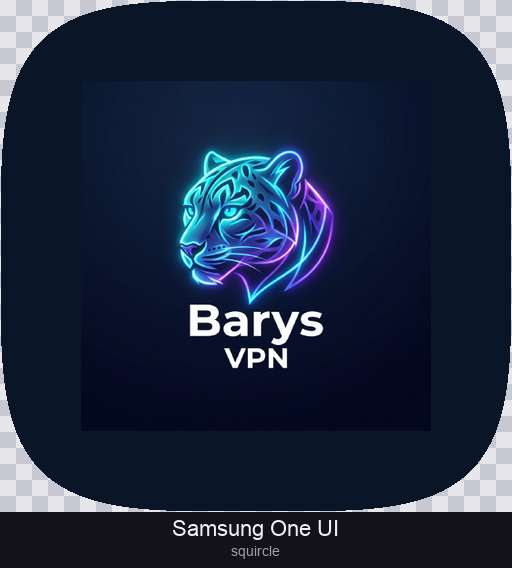
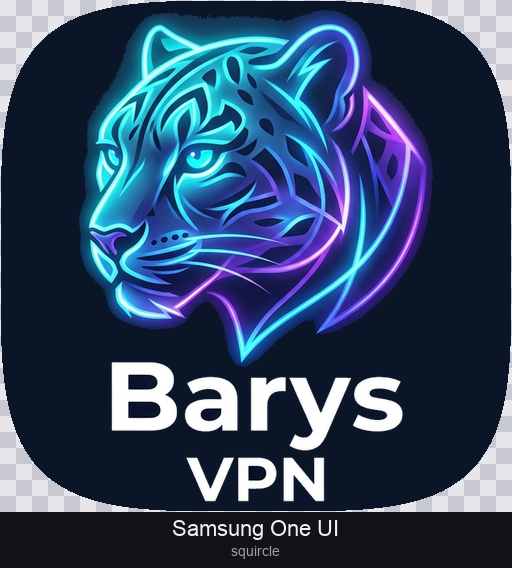
fix(android): иконка на всю маску — прозрачный foreground без inset
- icon_foreground.png: вырезка фона flood-fill, масштаб 96%
- ic_launcher.xml: foreground на весь слой (без 16% inset)
- scripts/regenerate_android_icons.sh — полный цикл + превью

diff --git a/docs/icon-preview.html b/docs/icon-preview.html
@@ -60,7 +60,7 @@
 </head>
 <body>
   <h1>Barys VPN — превью иконки</h1>
-  <p>Adaptive icon: фон <code>#0B1528</code>, foreground inset 16%. Сгенерировано скриптом <code>scripts/generate_icon_preview.py</code>.</p>
+  <p>Adaptive icon: фон <code>#0B1528</code>, прозрачный foreground (~96% заполнения), без inset.</p>
 
   <div class="hero">
     <img src="icon-previews/all-devices-grid.png" alt="Все устройства" />

diff --git a/scripts/prepare_icon_foreground.py b/scripts/prepare_icon_foreground.py
@@ -1,0 +1,87 @@
+#!/usr/bin/env python3
+"""Build a transparent foreground asset that fills the adaptive icon shape."""
+
+from __future__ import annotations
+
+from collections import deque
+from pathlib import Path
+
+from PIL import Image
+
+ROOT = Path(__file__).resolve().parents[1]
+SRC = ROOT / "client/assets/icon.png"
+OUT = ROOT / "client/assets/icon_foreground.png"
+BG_RGB = (11, 21, 40)  # #0B1528
+BG_TOLERANCE = 55
+FILL_RATIO = 0.96
+OUT_SIZE = 1024
+
+
+def color_distance(a: tuple[int, int, int], b: tuple[int, int, int]) -> float:
+    return ((a[0] - b[0]) ** 2 + (a[1] - b[1]) ** 2 + (a[2] - b[2]) ** 2) ** 0.5
+
+
+def is_background(rgb: tuple[int, int, int]) -> bool:
+    return color_distance(rgb, BG_RGB) <= BG_TOLERANCE
+
+
+def flood_remove_background(img: Image.Image) -> Image.Image:
+    """Remove background connected to image edges (keeps interior dark pixels)."""
+    rgba = img.convert("RGBA")
+    w, h = rgba.size
+    px = rgba.load()
+    visited = [[False] * w for _ in range(h)]
+    q: deque[tuple[int, int]] = deque()
+
+    for x in range(w):
+        q.append((x, 0))
+        q.append((x, h - 1))
+    for y in range(h):
+        q.append((0, y))
+        q.append((w - 1, y))
+
+    while q:
+        x, y = q.popleft()
+        if x < 0 or y < 0 or x >= w or y >= h or visited[x][y]:
+            continue
+        visited[x][y] = True
+        r, g, b, a = px[x, y]
+        if a == 0 or not is_background((r, g, b)):
+            continue
+        px[x, y] = (r, g, b, 0)
+        q.append((x + 1, y))
+        q.append((x - 1, y))
+        q.append((x, y + 1))
+        q.append((x, y - 1))
+
+    return rgba
+
+
+def bbox_opaque(img: Image.Image) -> tuple[int, int, int, int]:
+    alpha = img.split()[3]
+    return alpha.getbbox() or (0, 0, img.width, img.height)
+
+
+def center_on_canvas(content: Image.Image, size: int, fill_ratio: float) -> Image.Image:
+    cropped = content.crop(bbox_opaque(content))
+    target = int(size * fill_ratio)
+    cw, ch = cropped.size
+    scale = min(target / cw, target / ch)
+    nw, nh = max(1, int(cw * scale)), max(1, int(ch * scale))
+    resized = cropped.resize((nw, nh), Image.Resampling.LANCZOS)
+    canvas = Image.new("RGBA", (size, size), (0, 0, 0, 0))
+    canvas.paste(resized, ((size - nw) // 2, (size - nh) // 2), resized)
+    return canvas
+
+
+def main() -> None:
+    src = Image.open(SRC)
+    fg = flood_remove_background(src)
+    fg = center_on_canvas(fg, OUT_SIZE, FILL_RATIO)
+    OUT.parent.mkdir(parents=True, exist_ok=True)
+    fg.save(OUT)
+    print(f"Wrote {OUT} ({OUT_SIZE}x{OUT_SIZE}, fill={FILL_RATIO:.0%})")
+
+
+if __name__ == "__main__":
+    main()

diff --git a/scripts/generate_icon_preview.py b/scripts/generate_icon_preview.py
@@ -9,10 +9,9 @@ from pathlib import Path
 from PIL import Image, ImageDraw, ImageFont
 
 ROOT = Path(__file__).resolve().parents[1]
-FG_PATH = ROOT / "client/android/app/src/main/res/drawable-xxxhdpi/ic_launcher_foreground.png"
+FG_PATH = ROOT / "client/assets/icon_foreground.png"
 OUT_DIR = ROOT / "docs/icon-previews"
 BG = (11, 21, 40)  # #0B1528
-INSET = 0.16
 SIZE = 512
 PAD = 48
 LABEL_H = 56
@@ -21,10 +20,9 @@ LABEL_H = 56
 def compose_adaptive_icon(size: int = SIZE) -> Image.Image:
     fg = Image.open(FG_PATH).convert("RGBA")
     canvas = Image.new("RGBA", (size, size), BG + (255,))
-    margin = int(size * INSET)
-    inner = size - 2 * margin
-    fg_resized = fg.resize((inner, inner), Image.Resampling.LANCZOS)
-    canvas.paste(fg_resized, (margin, margin), fg_resized)
+    # Foreground is pre-sized on a 1024 canvas; scale to full adaptive layer (no inset).
+    fg_resized = fg.resize((size, size), Image.Resampling.LANCZOS)
+    canvas.alpha_composite(fg_resized)
     return canvas
 
 
@@ -158,7 +156,7 @@ def main() -> None:
     )
     draw.text(
         (grid_full.width // 2, 52),
-        "Adaptive icon: фон #0B1528 + foreground inset 16%",
+        "Adaptive icon: фон #0B1528 + прозрачный foreground (заполнение ~96%)",
         fill=(140, 200, 220),
         anchor="mt",
         font=title_font,
